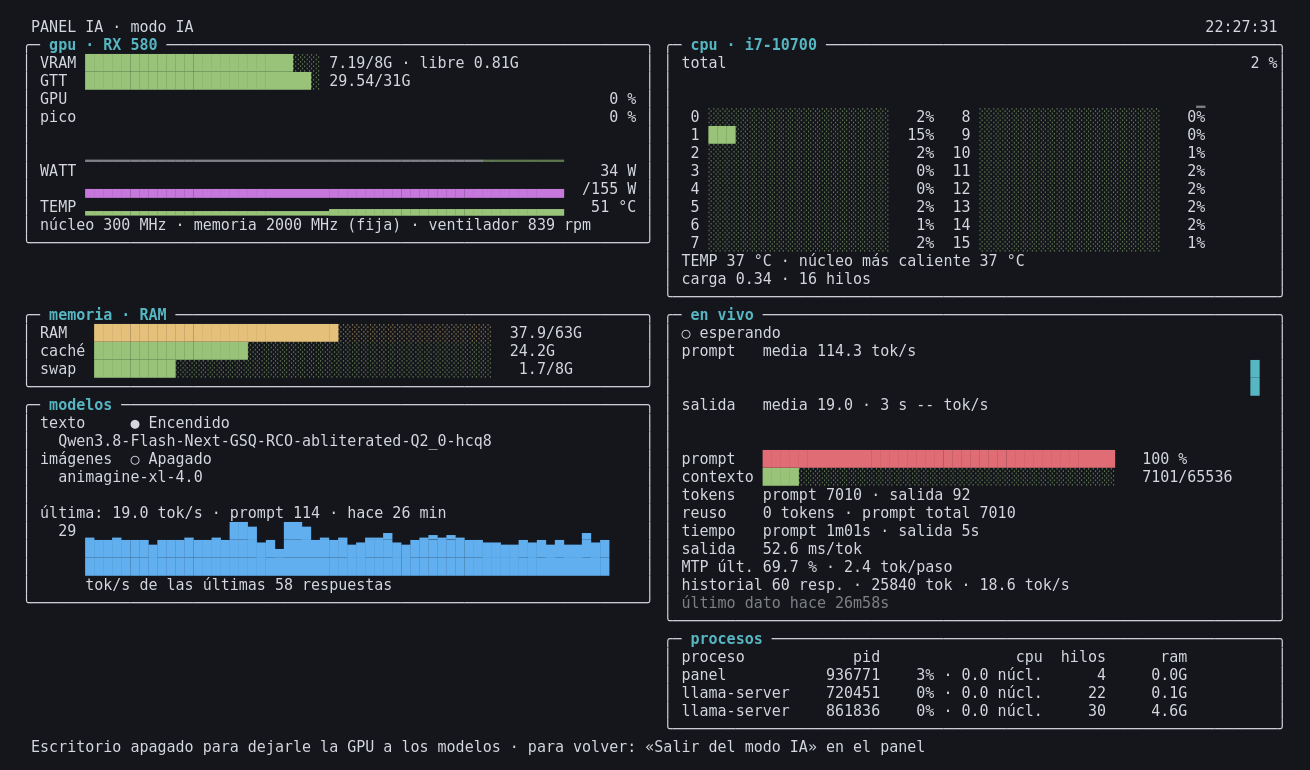
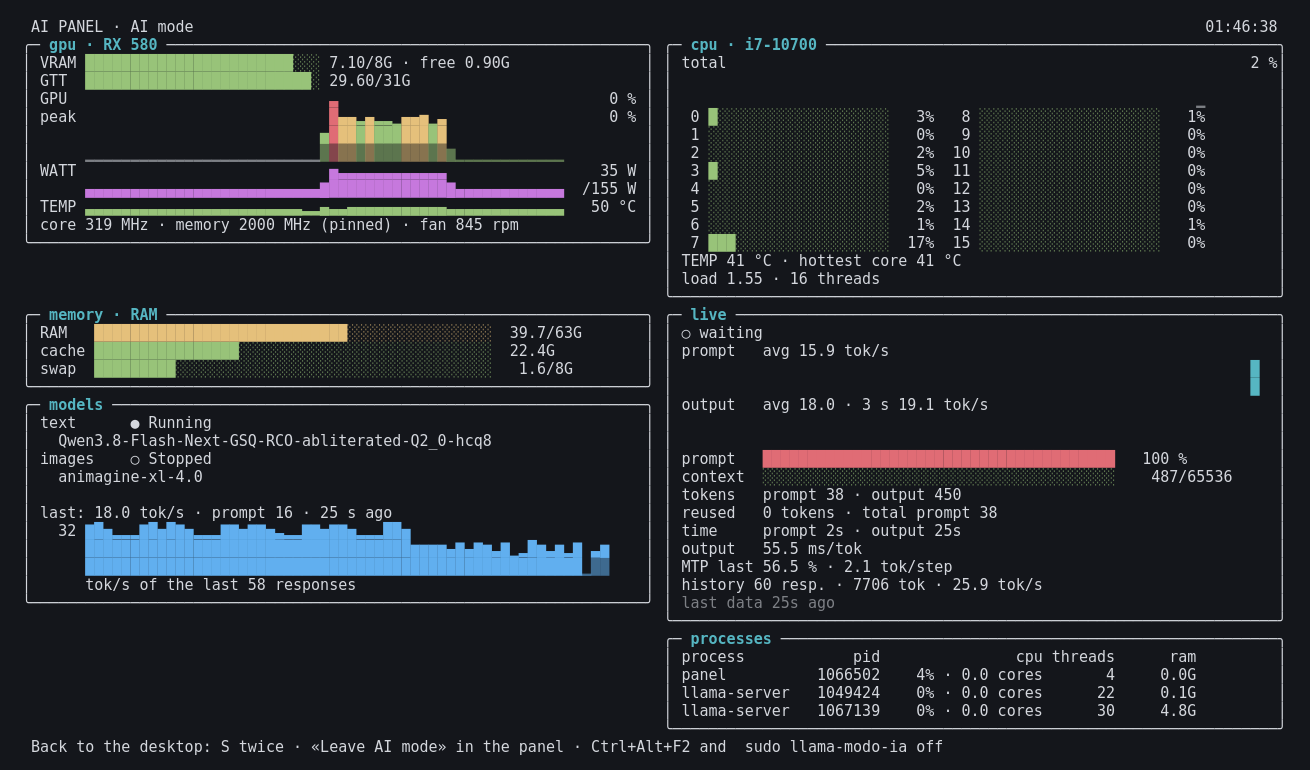
Actualiza las capturas del panel y del modo IA, en inglés y en castellano
Las del README principal en inglés y las de README.es.md en castellano, con la interfaz actual (selector de idioma,
prompts guardados con nombre, dashboard traducido).

Written with AI assistance (Claude).

diff --git a/README.es.md b/README.es.md
@@ -11,7 +11,7 @@ Panel web casero para levantar y bajar modelos on demand en una GPU con poca VRA
 Solo usa la biblioteca estándar de Python 3, sin dependencias ni paso de build. La interfaz está en castellano
 e inglés (selector arriba a la derecha).
 
-![Panel con Qwen3.8-Flash-Next cargado: VRAM, GPU, temperatura y RAM arriba; servicios de texto e imágenes; lista de modelos con sus velocidades medidas](docs/img/panel.png)
+![Panel con Qwen3.8-Flash-Next cargado: VRAM, GPU, temperatura y RAM arriba; servicios de texto e imágenes; lista de modelos con sus velocidades medidas](docs/img/panel.es.png)
 
 Está hecho y medido en una máquina concreta (AMD RX 580 de 8 GB solo con Vulkan, 64 GB de RAM, Linux con systemd);
 ver [Compatibilidad](#compatibilidad) para otras.
@@ -142,7 +142,7 @@ En modo IA el escritorio se apaga para liberar la VRAM que ocupaba, y tty1 muest
 (`llama_panel/kiosk.py`; sigue el idioma que usaste por última vez en el panel web, o `LLAMA_PANEL_LANG=es|en` en
 `paths.env`; para verlo por SSH sin activar nada: `python3 -m llama_panel.kiosk --once`):
 
-![Dashboard del modo IA en tty1: GPU, CPU por núcleo, RAM, modelo cargado, respuesta en curso y procesos](docs/img/modo-ia.png)
+![Dashboard del modo IA en tty1: GPU, CPU por núcleo, RAM, modelo cargado, respuesta en curso y procesos](docs/img/modo-ia.es.png)
 
 ## llama.cpp: por qué un fork
 
